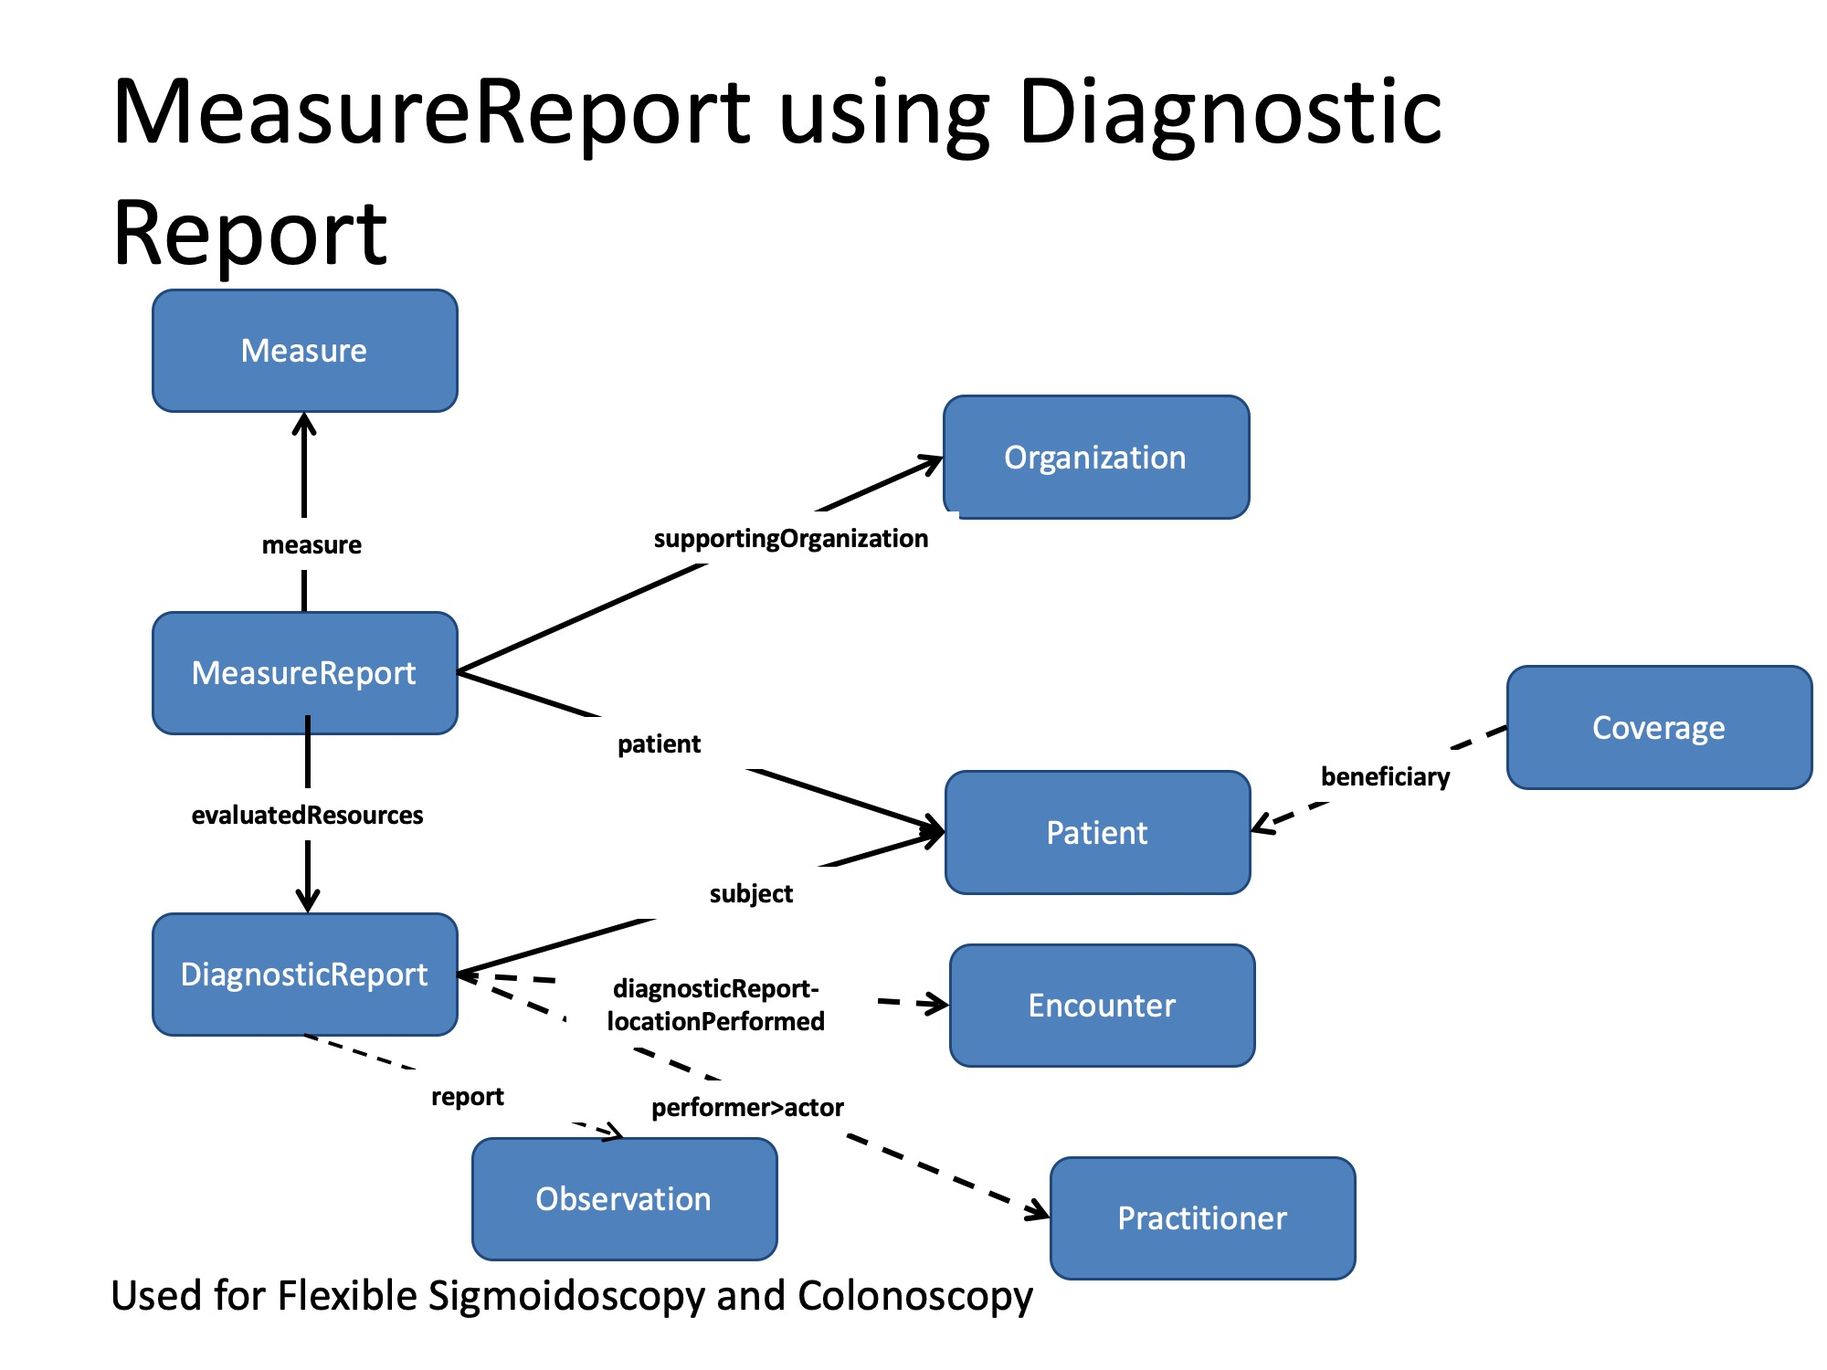
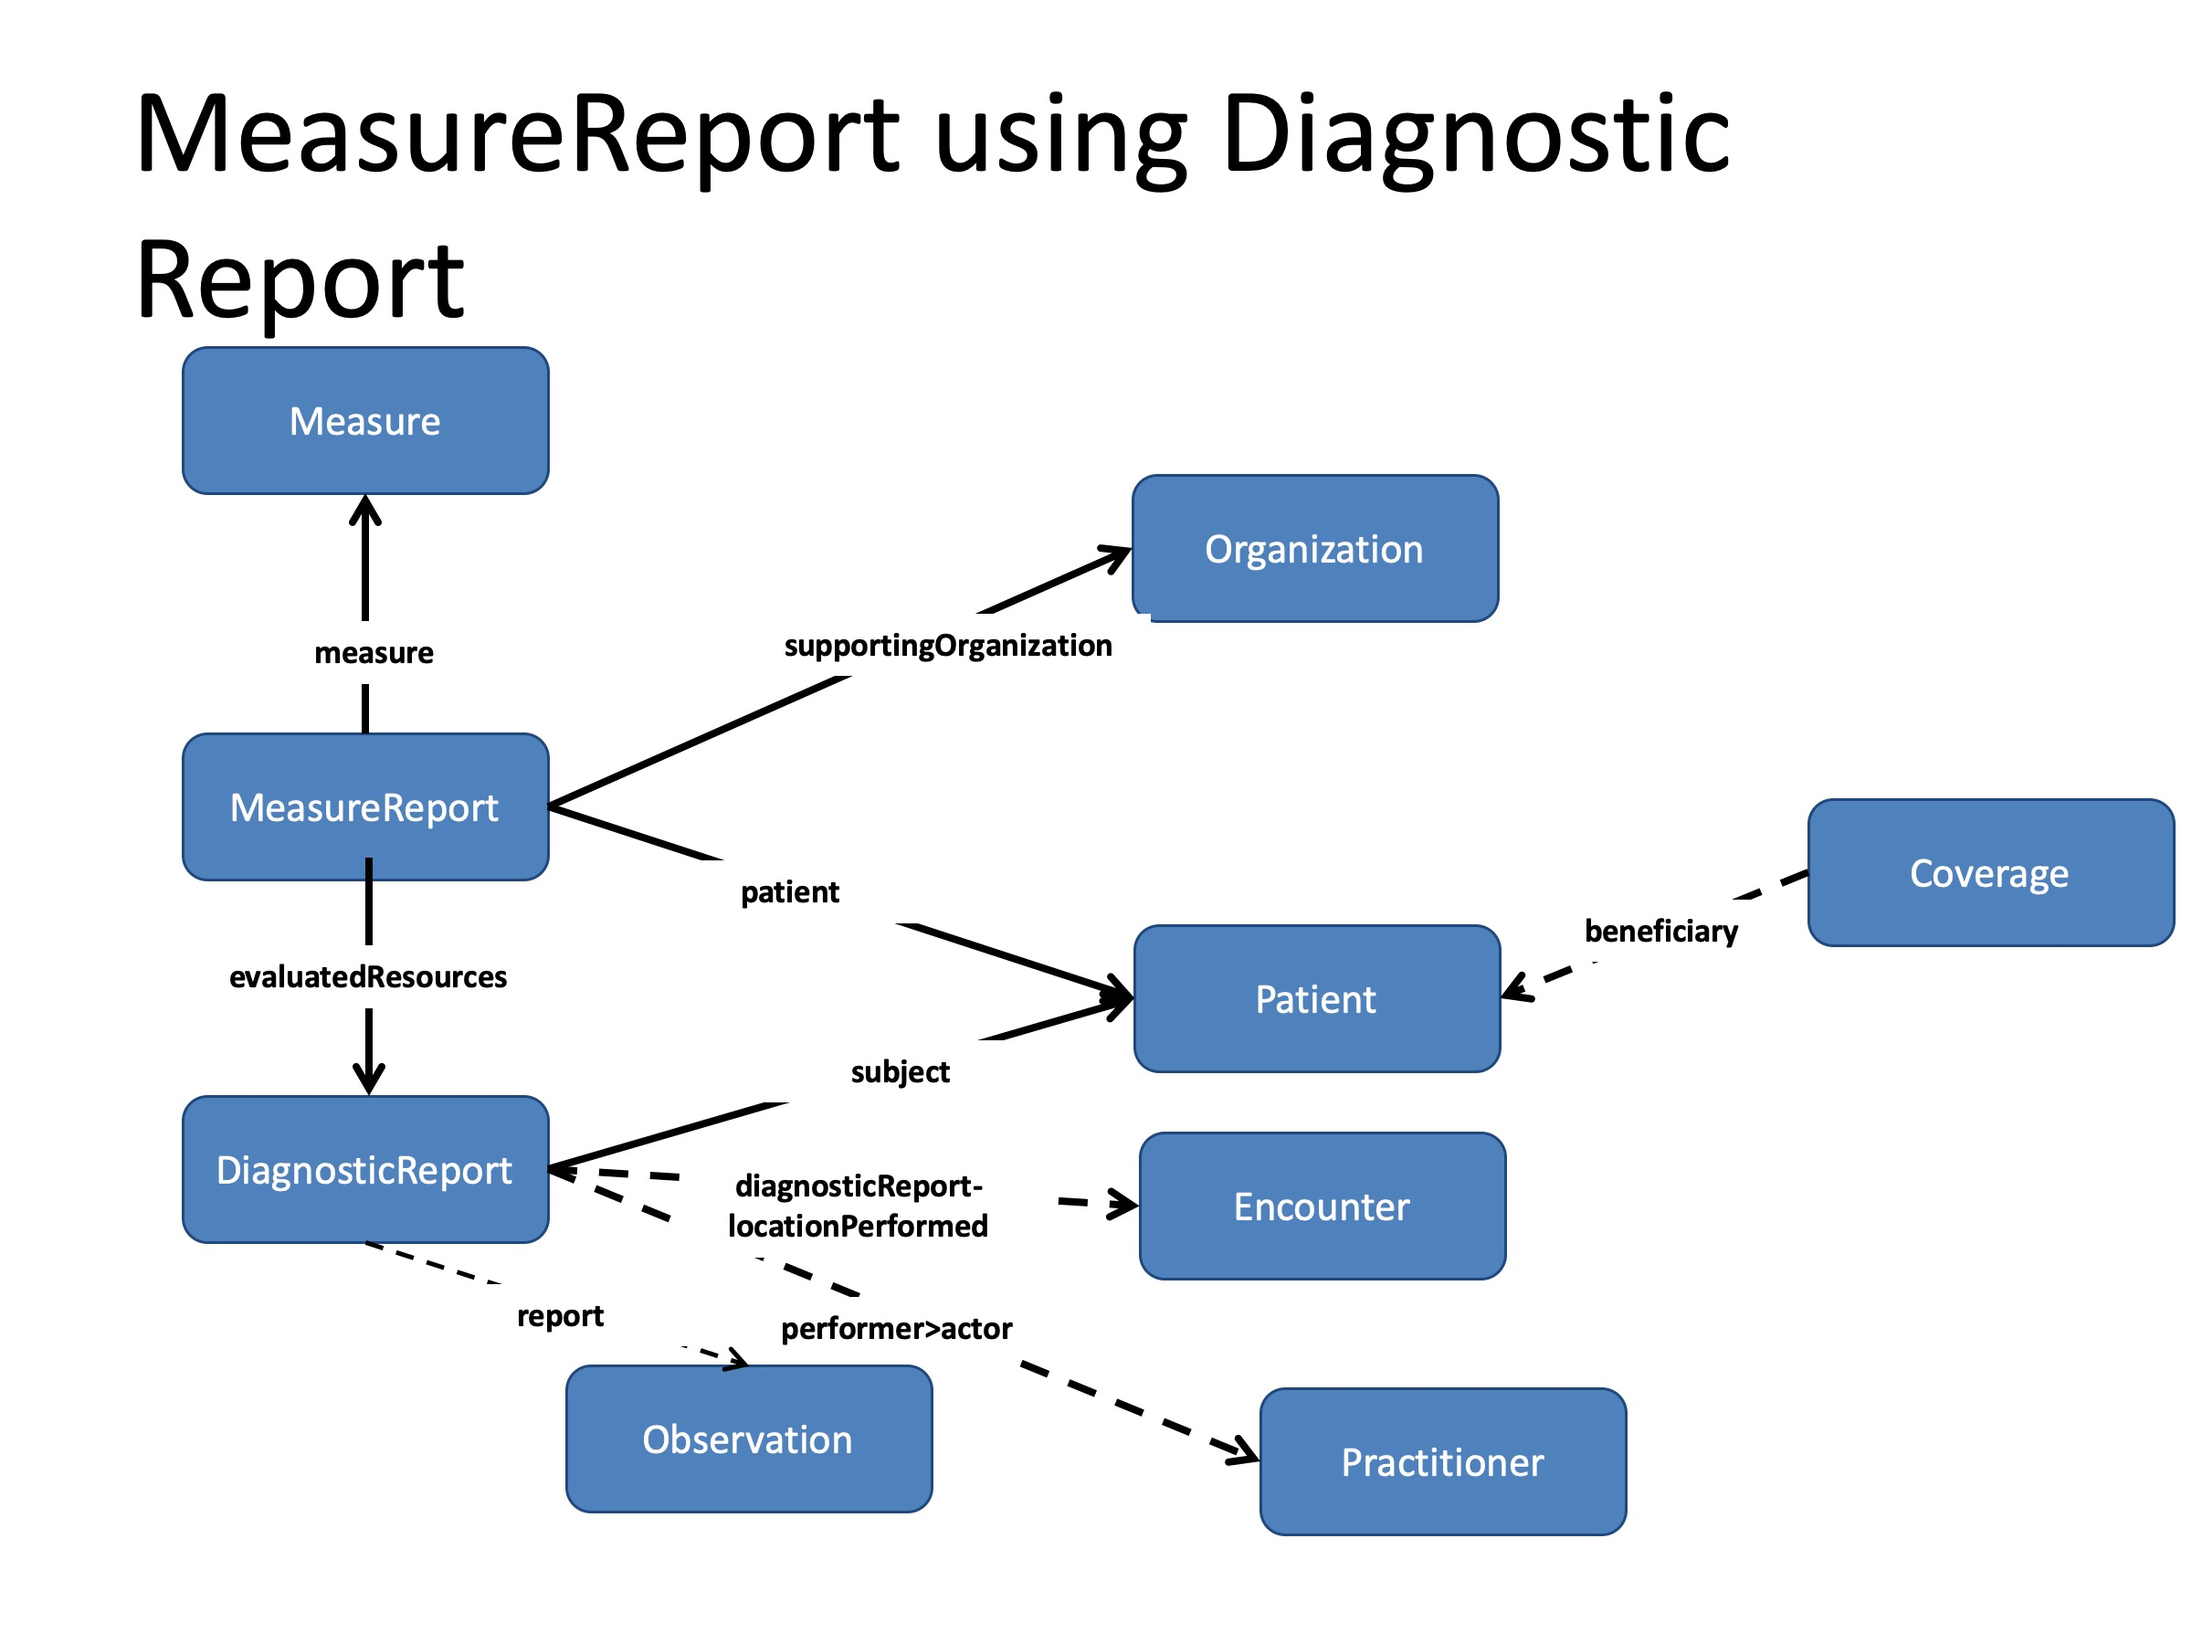
preapply GF#21794

diff --git a/source/pages/col.md b/source/pages/col.md
@@ -55,7 +55,7 @@ When certain laboratory results such as fecal occult blood (FOBT) and FIT-DNA ar
 ### Option 2: MeasureReport Using DiagnosticReport
 {:.no_toc}
 
-Another way a COL screening measure is met is when certain procedures are performed and a report generated.  In FHIR, the report is represented by a DiagnosticReport.  The measure indicates what ValueSets/Codes can be used to report this measure. The following diagram shows how that would be represented in a DEQM Individual MeasureReport with associated resources.
+Another way a COL screening measure is met is when certain procedures such as flexible sigmoidoscopy and colonoscopy are performed and a report generated.  In FHIR, the report is represented by a DiagnosticReport.  The measure indicates what ValueSets/Codes can be used to report this measure. The following diagram shows how a procedure report to meet a screening measure would be represented in a DEQM Individual MeasureReport and its associated resources.
 
 
 {% include img.html img="DEQM Resource Diagram - COL2.jpg" caption ="Figure 3-6 Measure Report Using DiagnosticReport" %}
